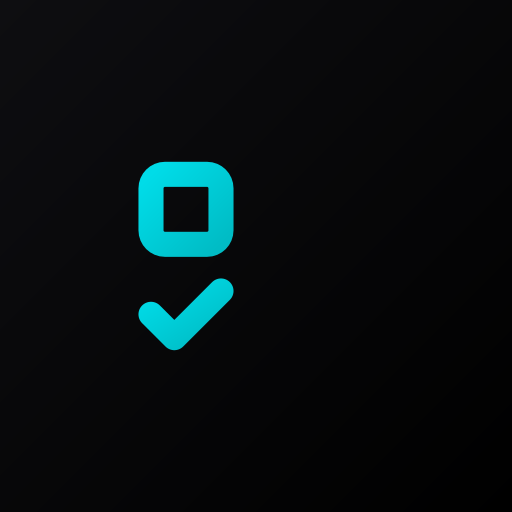
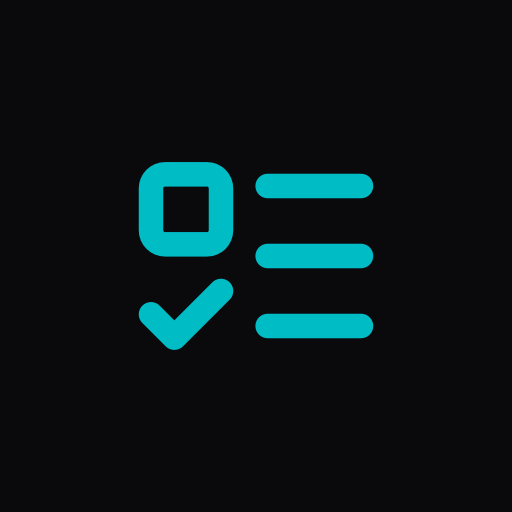
refactor: simplify board layout and update assets
Remove unused scroll navigation and UI elements. Update icon assets for better consistency.

diff --git a/src/components/board/Board.tsx b/src/components/board/Board.tsx
@@ -3,7 +3,6 @@ import { Column, Task } from '@/types';
 import { BoardColumn } from './BoardColumn';
 import { format } from 'date-fns';
 import { ru } from 'date-fns/locale';
-import { ChevronLeft, ChevronRight, Cloud, CloudCheck, Loader2 } from 'lucide-react';
 import { useAuth } from '../../context/AuthContext';
 
 const defaultCols: Column[] = [
@@ -25,13 +24,6 @@ export function Board({ tasks, onToggleTask, onAddTask }: Props) {
   const today = format(new Date(), 'EEEE, d MMMM', { locale: ru });
   const formattedToday = today.charAt(0).toUpperCase() + today.slice(1);
   const scrollContainerRef = useRef<HTMLDivElement>(null);
-
-  const scrollBoard = (direction: 'left' | 'right') => {
-    if (scrollContainerRef.current) {
-      const scrollAmount = direction === 'left' ? -320 : 320;
-      scrollContainerRef.current.scrollBy({ left: scrollAmount, behavior: 'smooth' });
-    }
-  };
 
   const scrollToColumn = (colId: string) => {
     const el = document.getElementById(`column-${colId}`);
@@ -55,35 +47,17 @@ export function Board({ tasks, onToggleTask, onAddTask }: Props) {
           )}
         </div>
 
-        {/* Quick jump tabs & scroll arrows for iPad / tablet */}
-        <div className="flex items-center gap-2">
-          <div className="hidden lg:flex items-center gap-1.5 mr-2">
-            {defaultCols.map(c => (
-              <button
-                key={c.id}
-                onClick={() => scrollToColumn(c.id)}
-                className="text-[11px] px-2.5 py-1 rounded-md bg-[#161618] hover:bg-[#222] text-[#8A8F98] hover:text-[#F7F8F8] transition-colors border border-[#262628]"
-              >
-                {c.title}
-              </button>
-            ))}
-          </div>
-          <div className="flex items-center gap-1 bg-[#141416] p-1 rounded-lg border border-[#262628]">
+        {/* Quick jump tabs for iPad / tablet */}
+        <div className="hidden lg:flex items-center gap-1.5">
+          {defaultCols.map(c => (
             <button
-              onClick={() => scrollBoard('left')}
-              className="p-1.5 rounded text-[#8A8F98] hover:text-[#F7F8F8] hover:bg-[#202024] transition-colors"
-              title="Прокрутить влево"
+              key={c.id}
+              onClick={() => scrollToColumn(c.id)}
+              className="text-[11px] px-2.5 py-1 rounded-md bg-[#161618] hover:bg-[#222] text-[#8A8F98] hover:text-[#F7F8F8] transition-colors border border-[#262628]"
             >
-              <ChevronLeft size={16} />
+              {c.title}
             </button>
-            <button
-              onClick={() => scrollBoard('right')}
-              className="p-1.5 rounded text-[#8A8F98] hover:text-[#F7F8F8] hover:bg-[#202024] transition-colors"
-              title="Прокрутить вправо"
-            >
-              <ChevronRight size={16} />
-            </button>
-          </div>
+          ))}
         </div>
       </header>
       

diff --git a/src/components/layout/UserProfile.tsx b/src/components/layout/UserProfile.tsx
@@ -1,6 +1,6 @@
 import React, { useState } from 'react';
 import { useAuth } from '../../context/AuthContext';
-import { Cloud, Loader2, RefreshCw, CheckCircle2, ChevronRight } from 'lucide-react';
+import { Cloud, Loader2, RefreshCw, CheckCircle2 } from 'lucide-react';
 
 interface Props {
   syncStatus: 'idle' | 'syncing' | 'synced' | 'offline';
@@ -121,7 +121,6 @@ export const UserProfile: React.FC<Props> = ({ syncStatus, onOpenSettings }) => 
             </p>
           </div>
         </div>
-        <ChevronRight size={14} className="text-[#666] group-hover:text-[#00BCC5] group-hover:translate-x-0.5 transition-all shrink-0" />
       </button>
     </div>
   );
